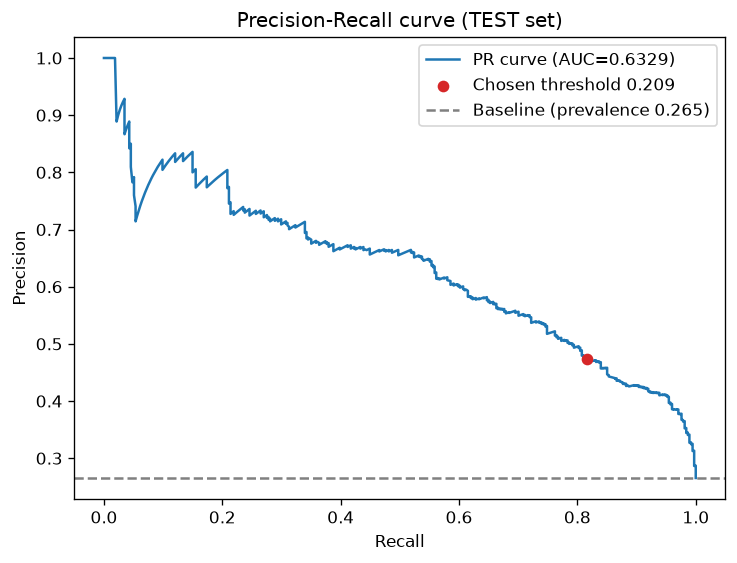
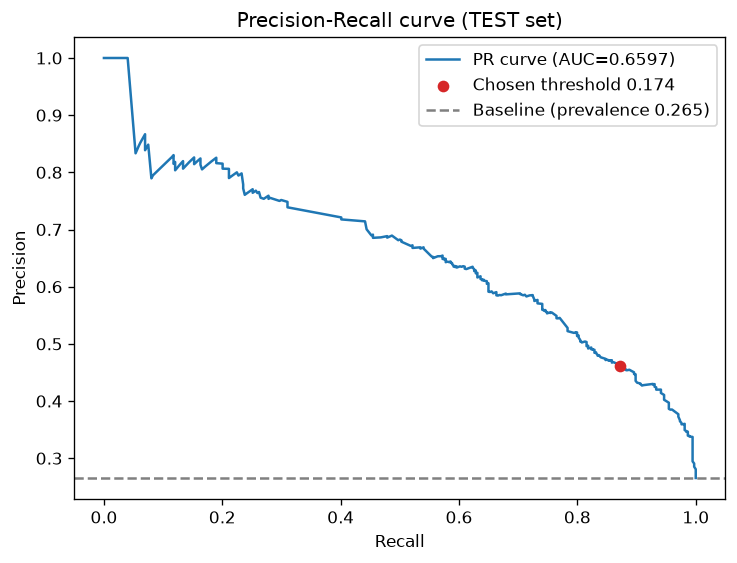
feat: dvc data versioning + dagshub mlflow tracking config

Changed region(s): [[0.156, 0.0906, 0.9362, 0.7549], [0.8738, 0.0906, 0.905, 0.1812], [0.9362, 0.7851, 0.9674, 0.8153]]

diff --git a/churn/evaluate.py b/churn/evaluate.py
@@ -531,9 +531,15 @@ def build_final_model(
             signature = infer_signature(
                 X_train, final_model.predict_proba(X_train.head(5))
             )
-            mlflow.sklearn.log_model(
+            # artifact_path= is used (not name=) for compatibility with hosted
+            # MLflow backends (e.g. DagsHub) that pre-date the MLflow 3.x
+            # LoggedModel API (/api/2.0/mlflow/logged-models/search).  Using
+            # name= causes the model artifact to be silently skipped on those
+            # servers.  model_info.model_uri is captured so register_model gets
+            # the actual storage URI rather than a manually-constructed string.
+            model_info = mlflow.sklearn.log_model(
                 sk_model=final_model,
-                name="final_model",
+                artifact_path="final_model",
                 signature=signature,
                 input_example=X_train.head(5),
                 skops_trusted_types=[
@@ -544,7 +550,7 @@ def build_final_model(
                     "xgboost.sklearn.XGBClassifier",
                 ],
             )
-        model_uri_logged = f"runs:/{run_id_logged}/final_model"
+        model_uri_logged = model_info.model_uri
 
     return FinalModelResult(
         model=final_model,